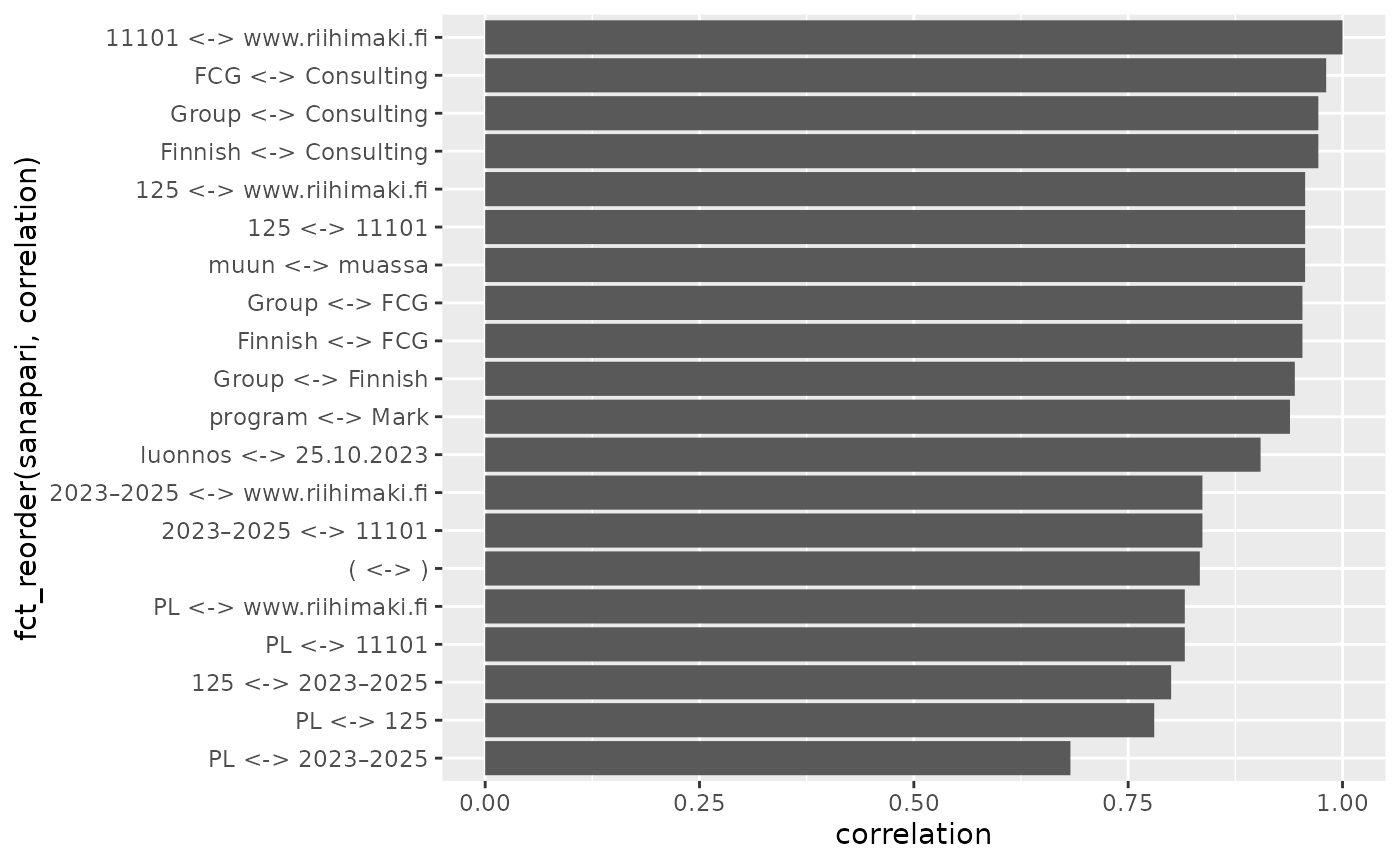
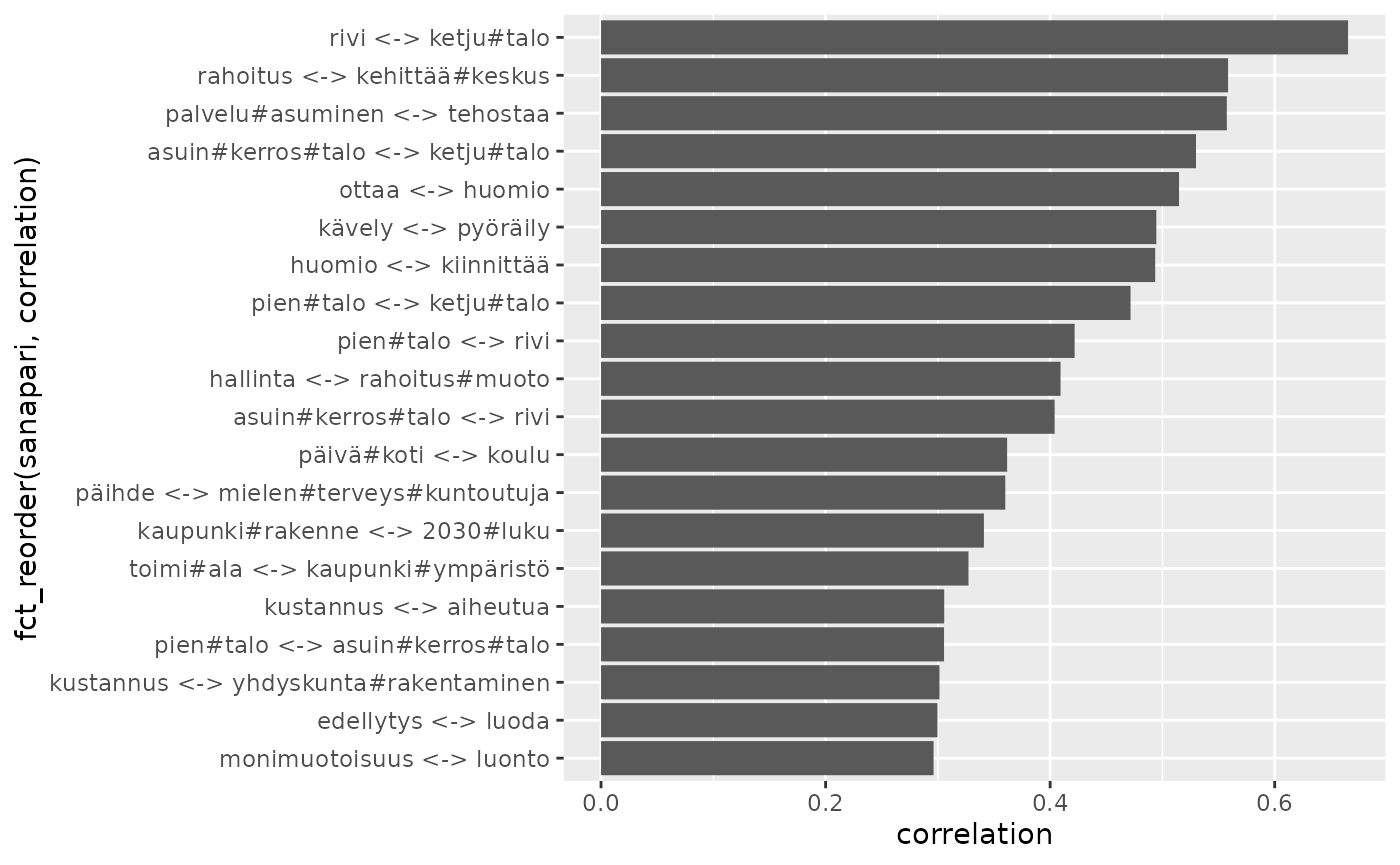
Deploying to gh-pages from @ StranMax/rfintext@d9738eab06d1eaede1c7c5ab6daa99ccd19b1345 🚀

diff --git a/articles/2-Tekstianalyysi-tidytext-paketilla.html b/articles/2-Tekstianalyysi-tidytext-paketilla.html
@@ -243,7 +243,9 @@
 <code class="sourceCode R"><span><span class="kw"><a href="https://rdrr.io/r/base/library.html" class="external-link">library</a></span><span class="op">(</span><span class="va"><a href="https://github.com/juliasilge/widyr" class="external-link">widyr</a></span><span class="op">)</span></span></code></pre></div>
 <div class="sourceCode" id="cb14"><pre class="downlit sourceCode r">
 <code class="sourceCode R"><span><span class="va">kappaleet</span> <span class="op">&lt;-</span> <span class="va">aspol</span> <span class="op">|&gt;</span></span>
-<span>  <span class="fu"><a href="https://dplyr.tidyverse.org/reference/filter.html" class="external-link">filter</a></span><span class="op">(</span><span class="op">)</span> <span class="op">|&gt;</span></span>
+<span>  <span class="fu"><a href="https://dplyr.tidyverse.org/reference/filter.html" class="external-link">filter</a></span><span class="op">(</span><span class="va">UPOSTAG</span> <span class="op"><a href="https://rdrr.io/r/base/match.html" class="external-link">%in%</a></span> <span class="fu"><a href="https://rdrr.io/r/base/c.html" class="external-link">c</a></span><span class="op">(</span><span class="st">"NOUN"</span>, <span class="st">"VERB"</span><span class="op">)</span>,</span>
+<span>         <span class="op">!</span><span class="fu"><a href="https://stringr.tidyverse.org/reference/str_detect.html" class="external-link">str_detect</a></span><span class="op">(</span><span class="va">LEMMA</span>, <span class="va">pattern</span><span class="op">)</span>,</span>
+<span>         <span class="fu"><a href="https://rdrr.io/r/base/nchar.html" class="external-link">nchar</a></span><span class="op">(</span><span class="va">LEMMA</span><span class="op">)</span> <span class="op">&gt;</span> <span class="fl">2</span><span class="op">)</span> <span class="op">|&gt;</span></span>
 <span>  <span class="fu"><a href="https://dplyr.tidyverse.org/reference/mutate.html" class="external-link">mutate</a></span><span class="op">(</span>kappale <span class="op">=</span> <span class="fu"><a href="https://rdrr.io/r/base/paste.html" class="external-link">paste0</a></span><span class="op">(</span><span class="va">kunta</span>, <span class="st">"-"</span>, <span class="va">sent</span><span class="op">)</span><span class="op">)</span> <span class="op">|&gt;</span></span>
 <span>  <span class="fu"><a href="https://dplyr.tidyverse.org/reference/count.html" class="external-link">count</a></span><span class="op">(</span><span class="va">kappale</span>, <span class="va">LEMMA</span><span class="op">)</span></span></code></pre></div>
 <div class="sourceCode" id="cb15"><pre class="downlit sourceCode r">
@@ -251,20 +253,20 @@
 <span>  <span class="fu"><a href="https://juliasilge.github.io/widyr/reference/pairwise_count.html" class="external-link">pairwise_count</a></span><span class="op">(</span><span class="va">LEMMA</span>, <span class="va">kappale</span>, sort <span class="op">=</span> <span class="cn">TRUE</span>, upper <span class="op">=</span> <span class="cn">FALSE</span><span class="op">)</span></span>
 <span></span>
 <span><span class="va">word_pairs</span></span>
-<span><span class="co">#&gt; <span style="color: #949494;"># A tibble: 1,781,755 × 3</span></span></span>
-<span><span class="co">#&gt;    item1 item2        n</span></span>
-<span><span class="co">#&gt;    <span style="color: #949494; font-style: italic;">&lt;chr&gt;</span> <span style="color: #949494; font-style: italic;">&lt;chr&gt;</span>    <span style="color: #949494; font-style: italic;">&lt;dbl&gt;</span></span></span>
-<span><span class="co">#&gt; <span style="color: #BCBCBC;"> 1</span> .     olla     <span style="text-decoration: underline;">10</span>970</span></span>
-<span><span class="co">#&gt; <span style="color: #BCBCBC;"> 2</span> .     ja       <span style="text-decoration: underline;">10</span>804</span></span>
-<span><span class="co">#&gt; <span style="color: #BCBCBC;"> 3</span> ,     .         <span style="text-decoration: underline;">8</span>685</span></span>
-<span><span class="co">#&gt; <span style="color: #BCBCBC;"> 4</span> ,     ja        <span style="text-decoration: underline;">5</span>786</span></span>
-<span><span class="co">#&gt; <span style="color: #BCBCBC;"> 5</span> olla  ja        <span style="text-decoration: underline;">5</span>744</span></span>
-<span><span class="co">#&gt; <span style="color: #BCBCBC;"> 6</span> ,     olla      <span style="text-decoration: underline;">5</span>617</span></span>
-<span><span class="co">#&gt; <span style="color: #BCBCBC;"> 7</span> .     asunto    <span style="text-decoration: underline;">2</span>707</span></span>
-<span><span class="co">#&gt; <span style="color: #BCBCBC;"> 8</span> .     vuosi     <span style="text-decoration: underline;">2</span>668</span></span>
-<span><span class="co">#&gt; <span style="color: #BCBCBC;"> 9</span> .     kaupunki  <span style="text-decoration: underline;">2</span>633</span></span>
-<span><span class="co">#&gt; <span style="color: #BCBCBC;">10</span> (     )         <span style="text-decoration: underline;">2</span>446</span></span>
-<span><span class="co">#&gt; <span style="color: #949494;"># ℹ 1,781,745 more rows</span></span></span></code></pre></div>
+<span><span class="co">#&gt; <span style="color: #949494;"># A tibble: 466,180 × 3</span></span></span>
+<span><span class="co">#&gt;    item1    item2        n</span></span>
+<span><span class="co">#&gt;    <span style="color: #949494; font-style: italic;">&lt;chr&gt;</span>    <span style="color: #949494; font-style: italic;">&lt;chr&gt;</span>    <span style="color: #949494; font-style: italic;">&lt;dbl&gt;</span></span></span>
+<span><span class="co">#&gt; <span style="color: #BCBCBC;"> 1</span> vuosi    asunto     498</span></span>
+<span><span class="co">#&gt; <span style="color: #BCBCBC;"> 2</span> alue     kaupunki   371</span></span>
+<span><span class="co">#&gt; <span style="color: #BCBCBC;"> 3</span> vuosi    kaupunki   362</span></span>
+<span><span class="co">#&gt; <span style="color: #BCBCBC;"> 4</span> asunto   kaupunki   342</span></span>
+<span><span class="co">#&gt; <span style="color: #BCBCBC;"> 5</span> tavoite  kaupunki   291</span></span>
+<span><span class="co">#&gt; <span style="color: #BCBCBC;"> 6</span> vuosi    aika       283</span></span>
+<span><span class="co">#&gt; <span style="color: #BCBCBC;"> 7</span> asuminen palvelu    271</span></span>
+<span><span class="co">#&gt; <span style="color: #BCBCBC;"> 8</span> asuminen kaupunki   269</span></span>
+<span><span class="co">#&gt; <span style="color: #BCBCBC;"> 9</span> kaupunki ohjelma    268</span></span>
+<span><span class="co">#&gt; <span style="color: #BCBCBC;">10</span> asuminen asunto     261</span></span>
+<span><span class="co">#&gt; <span style="color: #949494;"># ℹ 466,170 more rows</span></span></span></code></pre></div>
 <div class="sourceCode" id="cb16"><pre class="downlit sourceCode r">
 <code class="sourceCode R"><span><span class="va">word_cors</span> <span class="op">&lt;-</span> <span class="va">kappaleet</span> <span class="op"><a href="https://magrittr.tidyverse.org/reference/pipe.html" class="external-link">%&gt;%</a></span></span>
 <span>  <span class="fu"><a href="https://dplyr.tidyverse.org/reference/group_by.html" class="external-link">group_by</a></span><span class="op">(</span><span class="va">LEMMA</span><span class="op">)</span> <span class="op"><a href="https://magrittr.tidyverse.org/reference/pipe.html" class="external-link">%&gt;%</a></span></span>
@@ -272,20 +274,20 @@
 <span>  <span class="fu"><a href="https://juliasilge.github.io/widyr/reference/pairwise_cor.html" class="external-link">pairwise_cor</a></span><span class="op">(</span><span class="va">LEMMA</span>, <span class="va">kappale</span>, sort <span class="op">=</span> <span class="cn">TRUE</span>, upper <span class="op">=</span> <span class="cn">FALSE</span><span class="op">)</span></span>
 <span></span>
 <span><span class="va">word_cors</span></span>
-<span><span class="co">#&gt; <span style="color: #949494;"># A tibble: 918,690 × 3</span></span></span>
-<span><span class="co">#&gt;    item1   item2            correlation</span></span>
-<span><span class="co">#&gt;    <span style="color: #949494; font-style: italic;">&lt;chr&gt;</span>   <span style="color: #949494; font-style: italic;">&lt;chr&gt;</span>                  <span style="color: #949494; font-style: italic;">&lt;dbl&gt;</span></span></span>
-<span><span class="co">#&gt; <span style="color: #BCBCBC;"> 1</span> 11101   www.riihimaki.fi       1    </span></span>
-<span><span class="co">#&gt; <span style="color: #BCBCBC;"> 2</span> FCG     Consulting             0.981</span></span>
-<span><span class="co">#&gt; <span style="color: #BCBCBC;"> 3</span> Group   Consulting             0.972</span></span>
-<span><span class="co">#&gt; <span style="color: #BCBCBC;"> 4</span> Finnish Consulting             0.972</span></span>
-<span><span class="co">#&gt; <span style="color: #BCBCBC;"> 5</span> 125     11101                  0.956</span></span>
-<span><span class="co">#&gt; <span style="color: #BCBCBC;"> 6</span> 125     www.riihimaki.fi       0.956</span></span>
-<span><span class="co">#&gt; <span style="color: #BCBCBC;"> 7</span> muun    muassa                 0.956</span></span>
-<span><span class="co">#&gt; <span style="color: #BCBCBC;"> 8</span> Group   FCG                    0.953</span></span>
-<span><span class="co">#&gt; <span style="color: #BCBCBC;"> 9</span> Finnish FCG                    0.953</span></span>
-<span><span class="co">#&gt; <span style="color: #BCBCBC;">10</span> Group   Finnish                0.944</span></span>
-<span><span class="co">#&gt; <span style="color: #949494;"># ℹ 918,680 more rows</span></span></span></code></pre></div>
+<span><span class="co">#&gt; <span style="color: #949494;"># A tibble: 292,230 × 3</span></span></span>
+<span><span class="co">#&gt;    item1             item2           correlation</span></span>
+<span><span class="co">#&gt;    <span style="color: #949494; font-style: italic;">&lt;chr&gt;</span>             <span style="color: #949494; font-style: italic;">&lt;chr&gt;</span>                 <span style="color: #949494; font-style: italic;">&lt;dbl&gt;</span></span></span>
+<span><span class="co">#&gt; <span style="color: #BCBCBC;"> 1</span> rivi              ketju#talo            0.665</span></span>
+<span><span class="co">#&gt; <span style="color: #BCBCBC;"> 2</span> rahoitus          kehittää#keskus       0.558</span></span>
+<span><span class="co">#&gt; <span style="color: #BCBCBC;"> 3</span> palvelu#asuminen  tehostaa              0.557</span></span>
+<span><span class="co">#&gt; <span style="color: #BCBCBC;"> 4</span> asuin#kerros#talo ketju#talo            0.530</span></span>
+<span><span class="co">#&gt; <span style="color: #BCBCBC;"> 5</span> ottaa             huomio                0.515</span></span>
+<span><span class="co">#&gt; <span style="color: #BCBCBC;"> 6</span> kävely            pyöräily              0.495</span></span>
+<span><span class="co">#&gt; <span style="color: #BCBCBC;"> 7</span> huomio            kiinnittää            0.494</span></span>
+<span><span class="co">#&gt; <span style="color: #BCBCBC;"> 8</span> pien#talo         ketju#talo            0.472</span></span>
+<span><span class="co">#&gt; <span style="color: #BCBCBC;"> 9</span> pien#talo         rivi                  0.422</span></span>
+<span><span class="co">#&gt; <span style="color: #BCBCBC;">10</span> hallinta          rahoitus#muoto        0.409</span></span>
+<span><span class="co">#&gt; <span style="color: #949494;"># ℹ 292,220 more rows</span></span></span></code></pre></div>
 <div class="sourceCode" id="cb17"><pre class="downlit sourceCode r">
 <code class="sourceCode R"><span><span class="va">word_cors</span> <span class="op">|&gt;</span></span>
 <span>  <span class="fu"><a href="https://dplyr.tidyverse.org/reference/mutate.html" class="external-link">mutate</a></span><span class="op">(</span>sanapari <span class="op">=</span> <span class="fu"><a href="https://rdrr.io/r/base/paste.html" class="external-link">paste0</a></span><span class="op">(</span><span class="va">item1</span>, <span class="st">" &lt;-&gt; "</span>, <span class="va">item2</span><span class="op">)</span><span class="op">)</span> <span class="op">|&gt;</span></span>

diff --git a/articles/3-Sanapilvet.html b/articles/3-Sanapilvet.html
@@ -173,11 +173,9 @@
 <span></span>
 <span><span class="co">#&gt; Warning in wordcloud_boxes(data_points = points_valid_first, boxes = boxes, :</span></span>
 <span><span class="co">#&gt; Some words could not fit on page. They have been removed.</span></span>
-<span><span class="co">#&gt; Warning in wordcloud_boxes(data_points = points_valid_first, boxes = boxes, :</span></span>
-<span><span class="co">#&gt; One word could not fit on page. It has been removed.</span></span>
 <span></span>
 <span><span class="co">#&gt; Warning in wordcloud_boxes(data_points = points_valid_first, boxes = boxes, :</span></span>
-<span><span class="co">#&gt; One word could not fit on page. It has been removed.</span></span></code></pre></div>
+<span><span class="co">#&gt; Some words could not fit on page. They have been removed.</span></span></code></pre></div>
 <p><img src="3-Sanapilvet_files/figure-html/unnamed-chunk-8-1.png" width="793.92"></p>
 <div class="sourceCode" id="cb9"><pre class="downlit sourceCode r">
 <code class="sourceCode R"><span><span class="va">tf_verb_adv_luokka</span> <span class="op">&lt;-</span> <span class="va">verb_adv</span> <span class="op">|&gt;</span></span>
